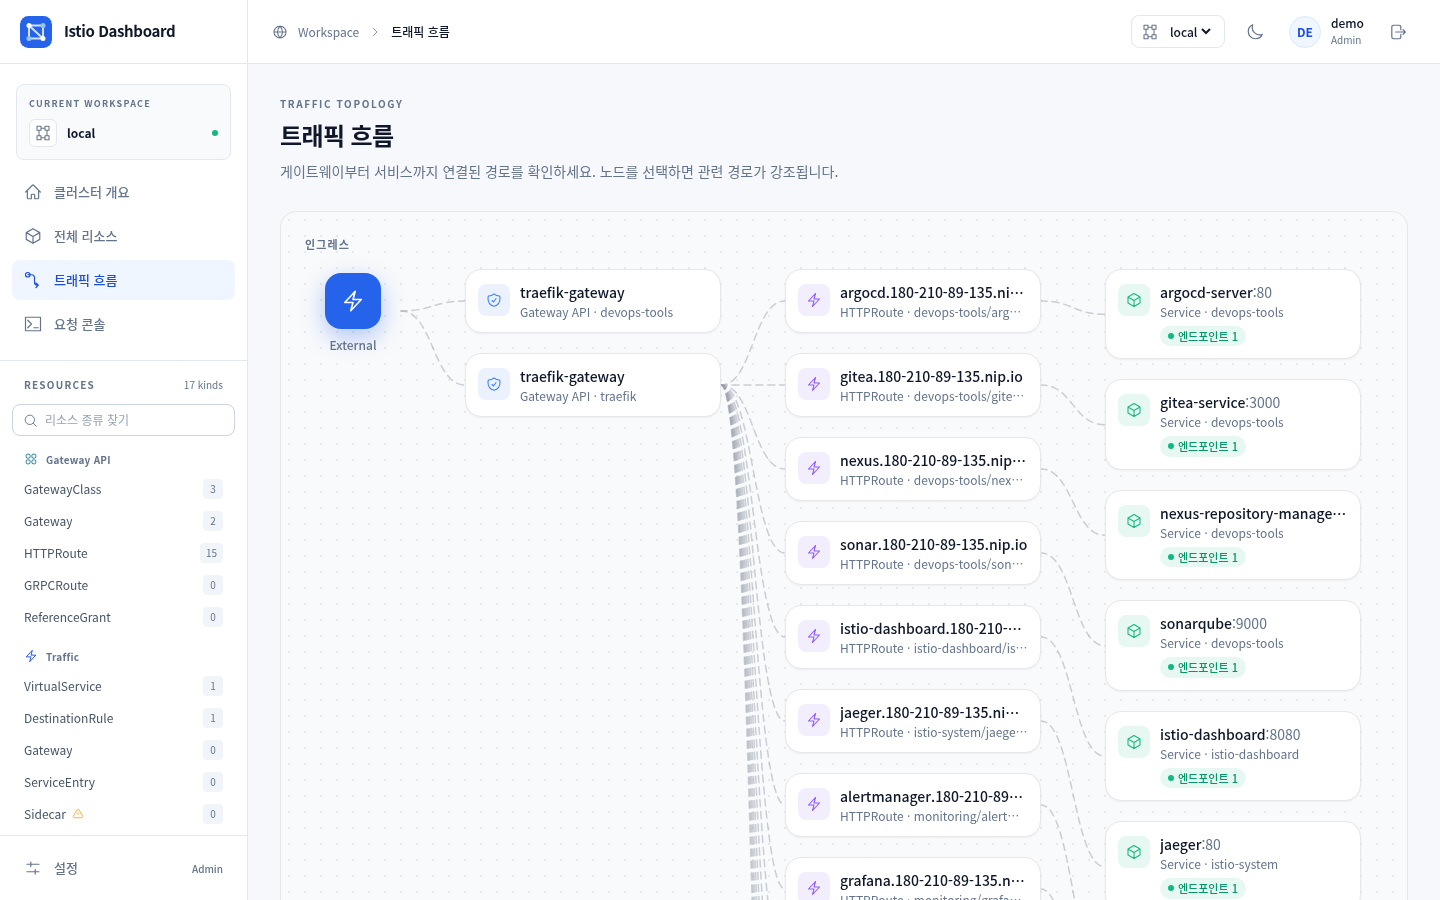
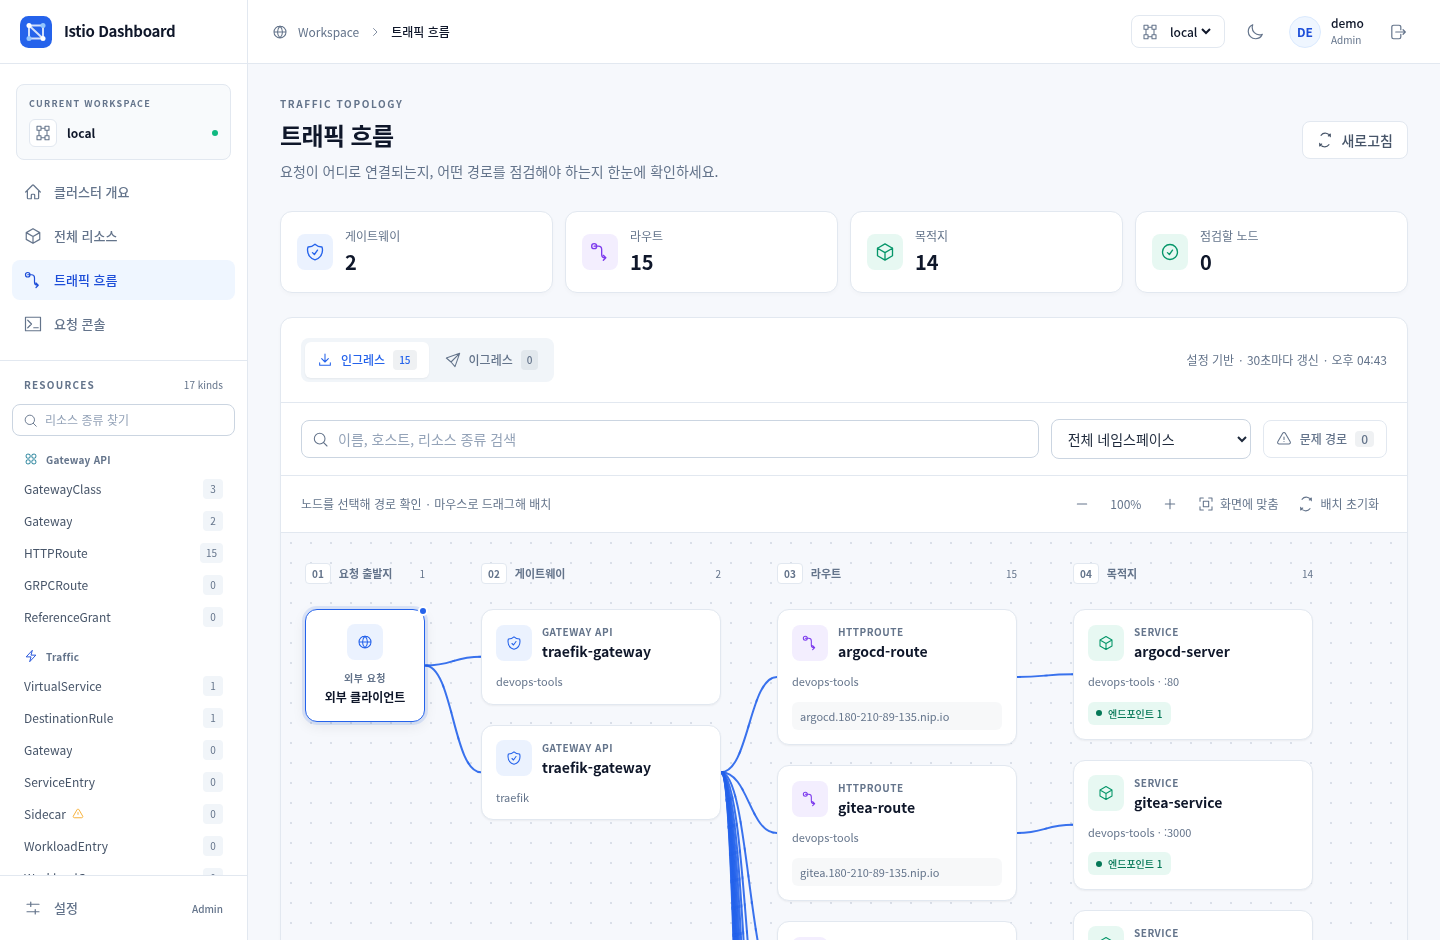
README 트래픽 흐름 이미지를 정규 경로로 + 차트 0.7.0
- 대표 스크린샷을 docs/screenshot-flowmap.png(새 UI로 재촬영)로 되돌린다.
  docs/ui-refresh/는 날짜가 박힌 변경 기록이라 README가 계속 가리키기엔 맞지 않고,
  다크·모바일 보조 링크만 그쪽을 참조한다.
- 설치 안내와 차트 버전을 0.7.0으로

diff --git a/internal/assets/dist/index.html b/internal/assets/dist/index.html
@@ -14,8 +14,8 @@
     <title>Istio Dashboard</title>
     <!-- 페인트 전에 저장된 테마 적용 (CSP script-src 'self' 유지를 위해 외부 파일) -->
     <script src="/theme-init.js"></script>
-    <script type="module" crossorigin src="/assets/index-ChR8KRBq.js"></script>
-    <link rel="stylesheet" crossorigin href="/assets/index-CYV13aTX.css">
+    <script type="module" crossorigin src="/assets/index-DnmwaMu_.js"></script>
+    <link rel="stylesheet" crossorigin href="/assets/index-CaYg8CsB.css">
   </head>
   <body>
     <div id="root"></div>

diff --git a/README.md b/README.md
@@ -94,7 +94,7 @@ dynamic client(unstructured) 기반의 단일 CRUD 경로(`/api/resources/{type}
 - **상호작용** — 노드를 클릭하거나 키보드로 선택하면 관련 경로가 강조되고, 아래 상세 영역에서 상태·호스트·포트와 리소스 열기 링크를 확인한다. 마우스 드래그, 확대·축소, 화면에 맞춤, 배치 초기화를 지원한다. 모바일에서는 그래프 영역 안에서 가로 스크롤한다.
 - **갱신** — 30초마다 설정을 다시 조회하며 수동 새로고침도 가능하다. 조회 실패에는 오류와 재시도 버튼을 표시한다. 연결선 애니메이션은 실제 트래픽량이나 지연을 나타내지 않는다.
 
-![트래픽 흐름도 — 경로 탐색과 선택한 노드 상세](docs/ui-refresh/flow-desktop.png)
+![트래픽 흐름도 — 경로 탐색과 선택한 노드 상세](docs/screenshot-flowmap.png)
 
 [다크 모드](docs/ui-refresh/flow-dark.png) · [모바일](docs/ui-refresh/flow-mobile.png)
 
@@ -291,7 +291,7 @@ CGO_ENABLED=0 go build -ldflags="-s -w" -o bin/server ./cmd/server
 ```bash
 # 설치 (네임스페이스는 원하는 곳으로; 이미지 기본값이 ghcr 프리빌트라 --set 불필요)
 helm install istio-dashboard oci://ghcr.io/wonjune95/charts/istio-dashboard \
-  --version 0.6.0 -n istio-system
+  --version 0.7.0 -n istio-system
 
 # 노출 전 바로 접속해보기
 kubectl -n istio-system port-forward svc/istio-dashboard 8080:8080

diff --git a/README.en.md b/README.en.md
@@ -94,7 +94,7 @@ Draws the traffic path purely from routing configuration — no metrics dependen
 - **Interaction** — select a node with a click or keyboard to highlight its paths. The details panel shows its status, hosts, port and resource link. Mouse drag, zoom, fit and layout reset are available. On mobile, horizontal scrolling stays inside the graph.
 - **Refresh** — configuration refreshes every 30 seconds, with a manual refresh button. Failed queries show an error and retry action. Animated connections do not represent actual traffic volume or latency.
 
-![Traffic flow map — path navigation and selected node details](docs/ui-refresh/flow-desktop.png)
+![Traffic flow map — path navigation and selected node details](docs/screenshot-flowmap.png)
 
 [Dark mode](docs/ui-refresh/flow-dark.png) · [Mobile](docs/ui-refresh/flow-mobile.png)
 
@@ -290,7 +290,7 @@ Both the chart and image are published to ghcr.io, so no clone is needed:
 ```bash
 # install (pick any namespace; image defaults to the prebuilt ghcr one)
 helm install istio-dashboard oci://ghcr.io/wonjune95/charts/istio-dashboard \
-  --version 0.6.0 -n istio-system
+  --version 0.7.0 -n istio-system
 
 # try it before exposing
 kubectl -n istio-system port-forward svc/istio-dashboard 8080:8080
